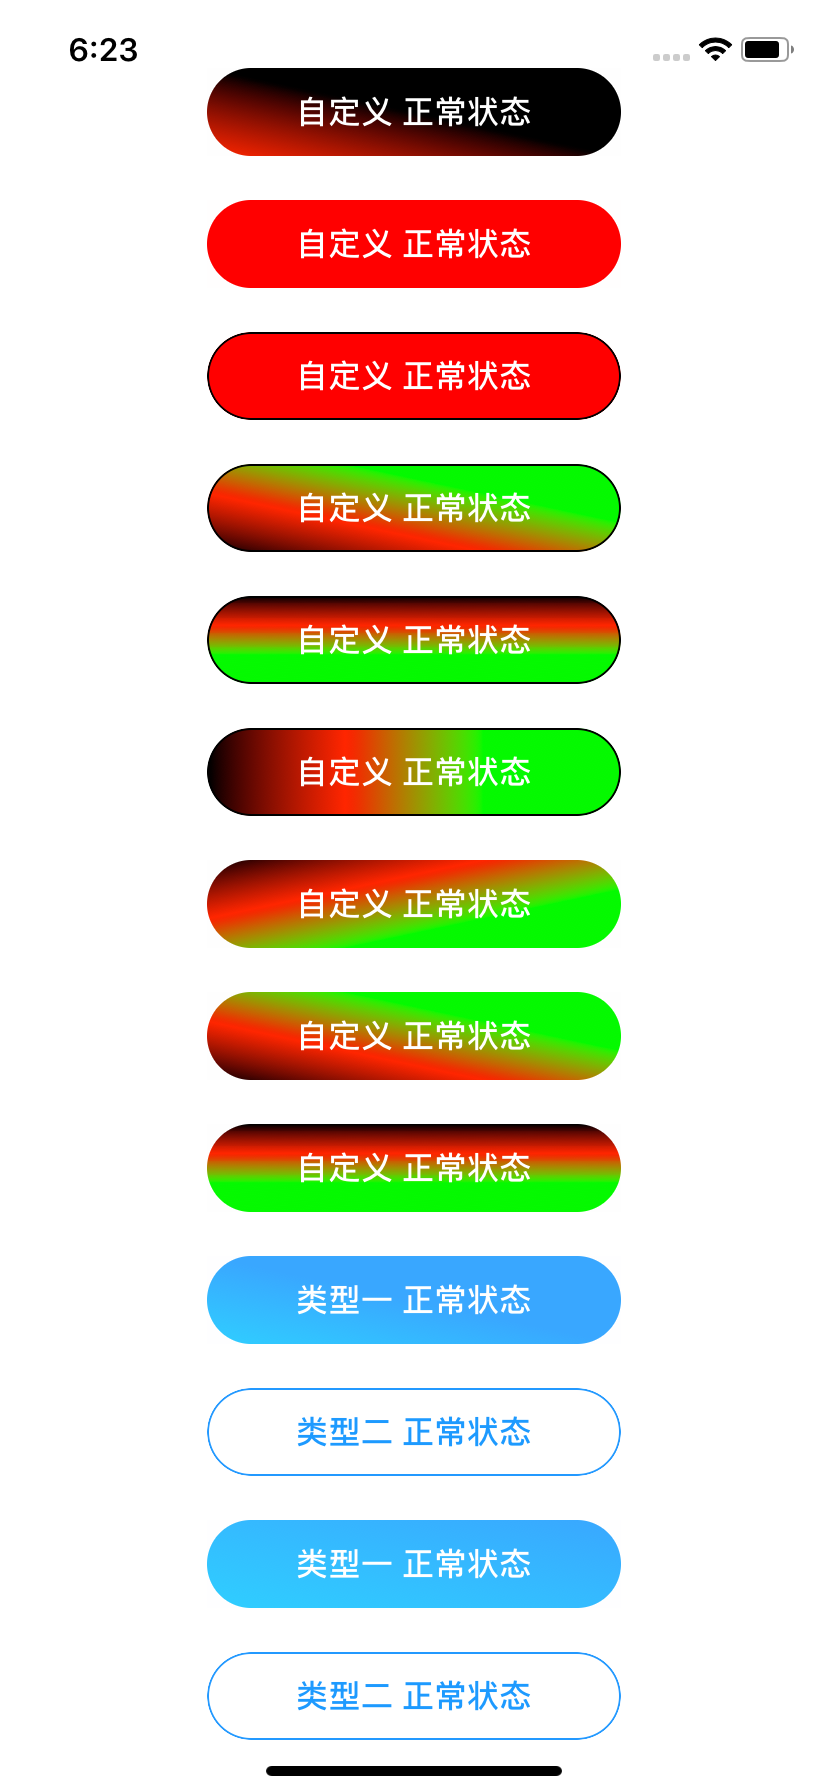
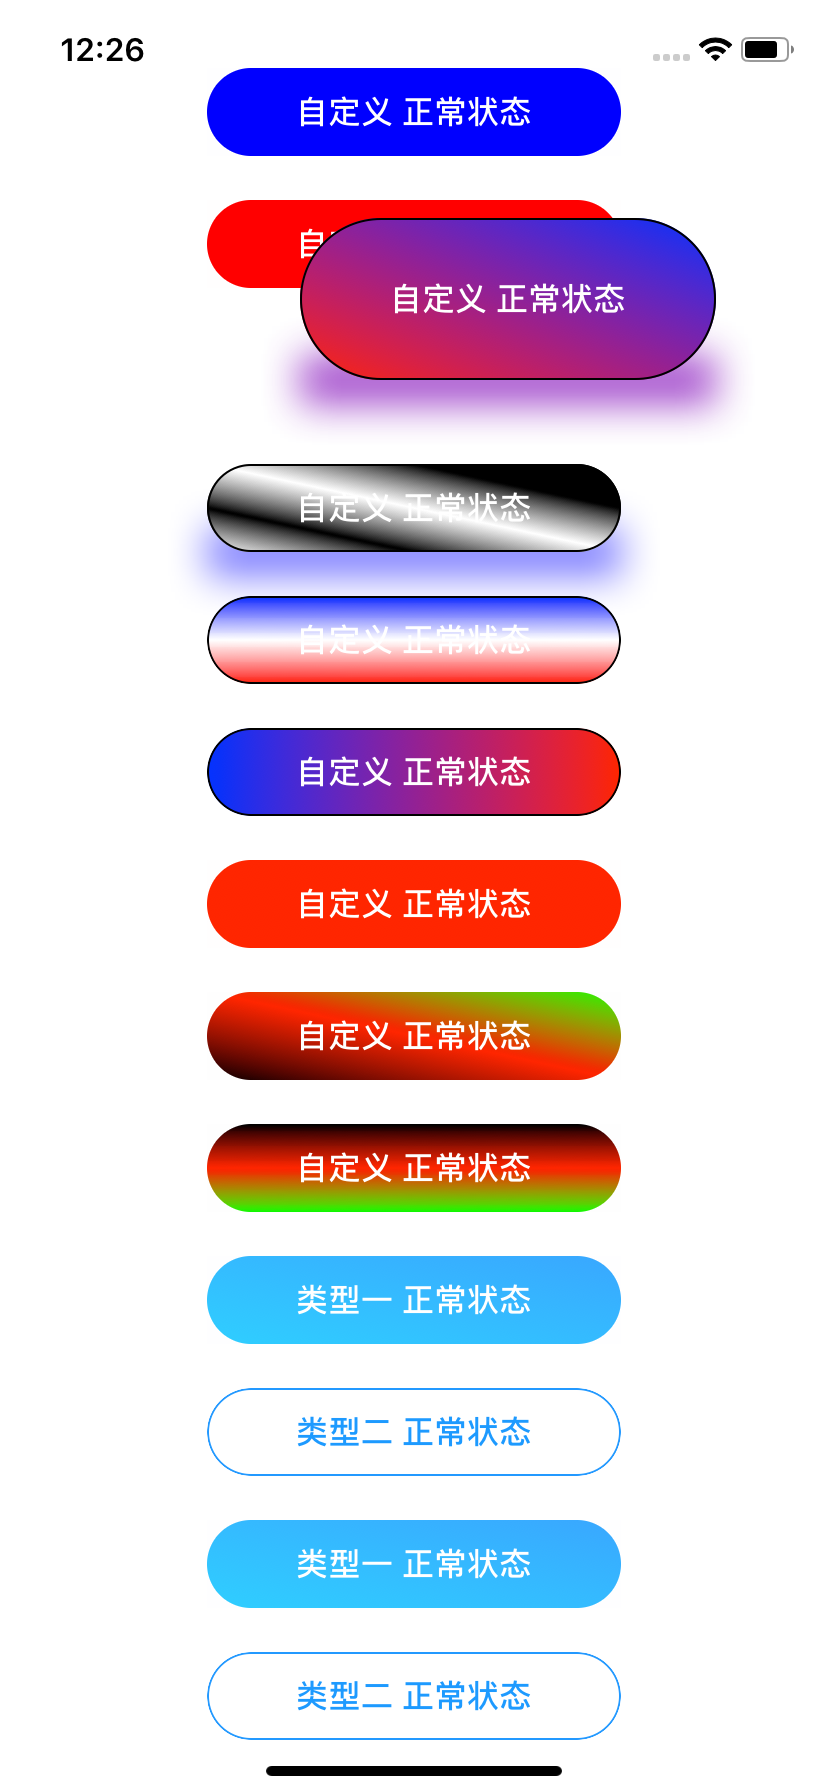
add shadow

Changed region(s): [[0.2114, 0.0312, 0.9058, 0.6875], [0.0604, 0.0, 0.1812, 0.0312]]

diff --git a/ZZArtboardButton/ViewController.m b/ZZArtboardButton/ViewController.m
@@ -65,8 +65,13 @@
     customButton.bxAdjustsWhenHighlighted = NO;
     [customButton setType:ZZArtboardTypeCustom textColor:[UIColor whiteColor] font:[UIFont systemFontOfSize:16.0 weight:UIFontWeightMedium] text:@"自定义 正常状态"];
     [customButton setCustomTitles];
-    [customButton setBackgroundImageWithColor:[UIColor redColor] boderColor:[UIColor blackColor] forState:UIControlStateNormal];
-    [customButton setBackgroundImageWithColor:[UIColor greenColor] boderColor:[UIColor blueColor] forState:UIControlStateSelected];
+    __weak typeof(customButton) weakButton = customButton;
+    customButton.layoutCustomBackgroundImageBlock = ^{
+        [weakButton setBackgroundImageWithColors:@[[UIColor redColor],[UIColor blueColor]] boderColor:[UIColor blackColor] forState:UIControlStateNormal];
+        [weakButton setBackgroundImageWithColors:@[[UIColor blueColor],[UIColor redColor]] boderColor:[UIColor blueColor] forState:UIControlStateSelected];
+        weakButton.clipsToBounds = NO;
+        [ZZArtboardButton setShadowWithLayer:weakButton.layer color:[UIColor randomColor] offset:CGSizeZero radius:10.0 opacity:0.8 height:25.0];
+    };
     [customButton addTarget:self action:@selector(bxChangeFrameClick:) forControlEvents:UIControlEventTouchUpInside];
     [self.view addSubview:customButton];
 }
@@ -77,6 +82,8 @@
     [customButton setType:ZZArtboardTypeCustom textColor:[UIColor whiteColor] font:[UIFont systemFontOfSize:16.0 weight:UIFontWeightMedium] text:@"自定义 正常状态"];
     [customButton setCustomTitles];
     [customButton setBackgroundImageWithColors:@[[UIColor whiteColor], [UIColor blackColor], [UIColor whiteColor], [UIColor blackColor], [UIColor blackColor]] boderColor:[UIColor blackColor] forState:UIControlStateNormal directionType:ZZArtboardDirectionTypeDefault];
+    customButton.clipsToBounds = NO;
+    [ZZArtboardButton setShadowWithLayer:customButton.layer color:[UIColor blueColor] offset:CGSizeZero radius:10.0 opacity:0.5 height:25.0];
     [self.view addSubview:customButton];
 }
 
@@ -182,11 +189,9 @@
 
 - (void)bxChangeFrameClick:(ZZArtboardButton *)button {
     button.selected = !button.selected;
-    CGRect rect = CGRectMake(150, 100, 200, 80);
+    CGRect rect = CGRectMake(150, 100+arc4random()%10, 200+arc4random()%20, 80+arc4random()%20);
     if (!CGRectEqualToRect(button.frame, rect)) {
         button.frame = rect;
-        [button setBackgroundImageWithColor:[UIColor redColor] boderColor:[UIColor blackColor] forState:UIControlStateNormal];
-        [button setBackgroundImageWithColor:[UIColor greenColor] boderColor:[UIColor blueColor] forState:UIControlStateSelected];
     }
 }
 

diff --git a/ZZArtboardButton/ZZArtboardButton.h b/ZZArtboardButton/ZZArtboardButton.h
@@ -198,7 +198,9 @@ typedef NS_ENUM(NSInteger, ZZArtboardDirectionType) {
  @param directionType       ZZArtboardDirectionType（默认左下->右上）
  @return                    渐变图层
  */
-- (CAGradientLayer *)gradientLayerWithFrame:(CGRect)frame colors:(NSArray <UIColor *>*)colors directionType:(ZZArtboardDirectionType)directionType;
+- (CAGradientLayer *)gradientLayerWithFrame:(CGRect)frame
+                                     colors:(NSArray <UIColor *>*)colors
+                              directionType:(ZZArtboardDirectionType)directionType;
 
 /**
  图层（背景色、带1px框）
@@ -208,7 +210,9 @@ typedef NS_ENUM(NSInteger, ZZArtboardDirectionType) {
  @param borderColor         框颜色
  @return                    图层
  */
-- (CALayer *)createLayerWithFrame:(CGRect)frame bgColor:(UIColor *)bgColor borderColor:(UIColor *)borderColor;
+- (CALayer *)createLayerWithFrame:(CGRect)frame
+                          bgColor:(UIColor *)bgColor
+                      borderColor:(UIColor *)borderColor;
 
 /**
  图层（背景色）
@@ -217,7 +221,18 @@ typedef NS_ENUM(NSInteger, ZZArtboardDirectionType) {
  @param color               背景色
  @return                    图层
  */
-- (CALayer *)maskLayerWithFrame:(CGRect)frame color:(UIColor *)color;
+- (CALayer *)maskLayerWithFrame:(CGRect)frame
+                          color:(UIColor *)color;
+
+/**
+ 阴影
+ */
++ (void)setShadowWithLayer:(CALayer *)layer
+                     color:(UIColor *)color
+                    offset:(CGSize)offset
+                    radius:(CGFloat)radius
+                   opacity:(CGFloat)opacity
+                    height:(CGFloat)height;
 
 @end
 

diff --git a/ZZArtboardButton/ZZArtboardButton.m b/ZZArtboardButton/ZZArtboardButton.m
@@ -416,6 +416,15 @@ static NSString * const kDownDisbaledBorderLayerColor = @"#E1E1E1";
     return maskLayer;
 }
 
++ (void)setShadowWithLayer:(CALayer *)layer color:(UIColor *)color offset:(CGSize)offset radius:(CGFloat)radius opacity:(CGFloat)opacity height:(CGFloat)height {
+    layer.shadowOffset = offset;
+    layer.shadowColor = color.CGColor;
+    layer.shadowRadius = radius;
+    layer.shadowOpacity = opacity;
+    UIBezierPath *path = [UIBezierPath bezierPathWithRect:CGRectMake(0, layer.frame.size.height - height / 2, layer.frame.size.width, height)];
+    layer.shadowPath = path.CGPath;
+}
+
 #pragma mark - Getter
 
 - (UIImage *)up_normalImage {
